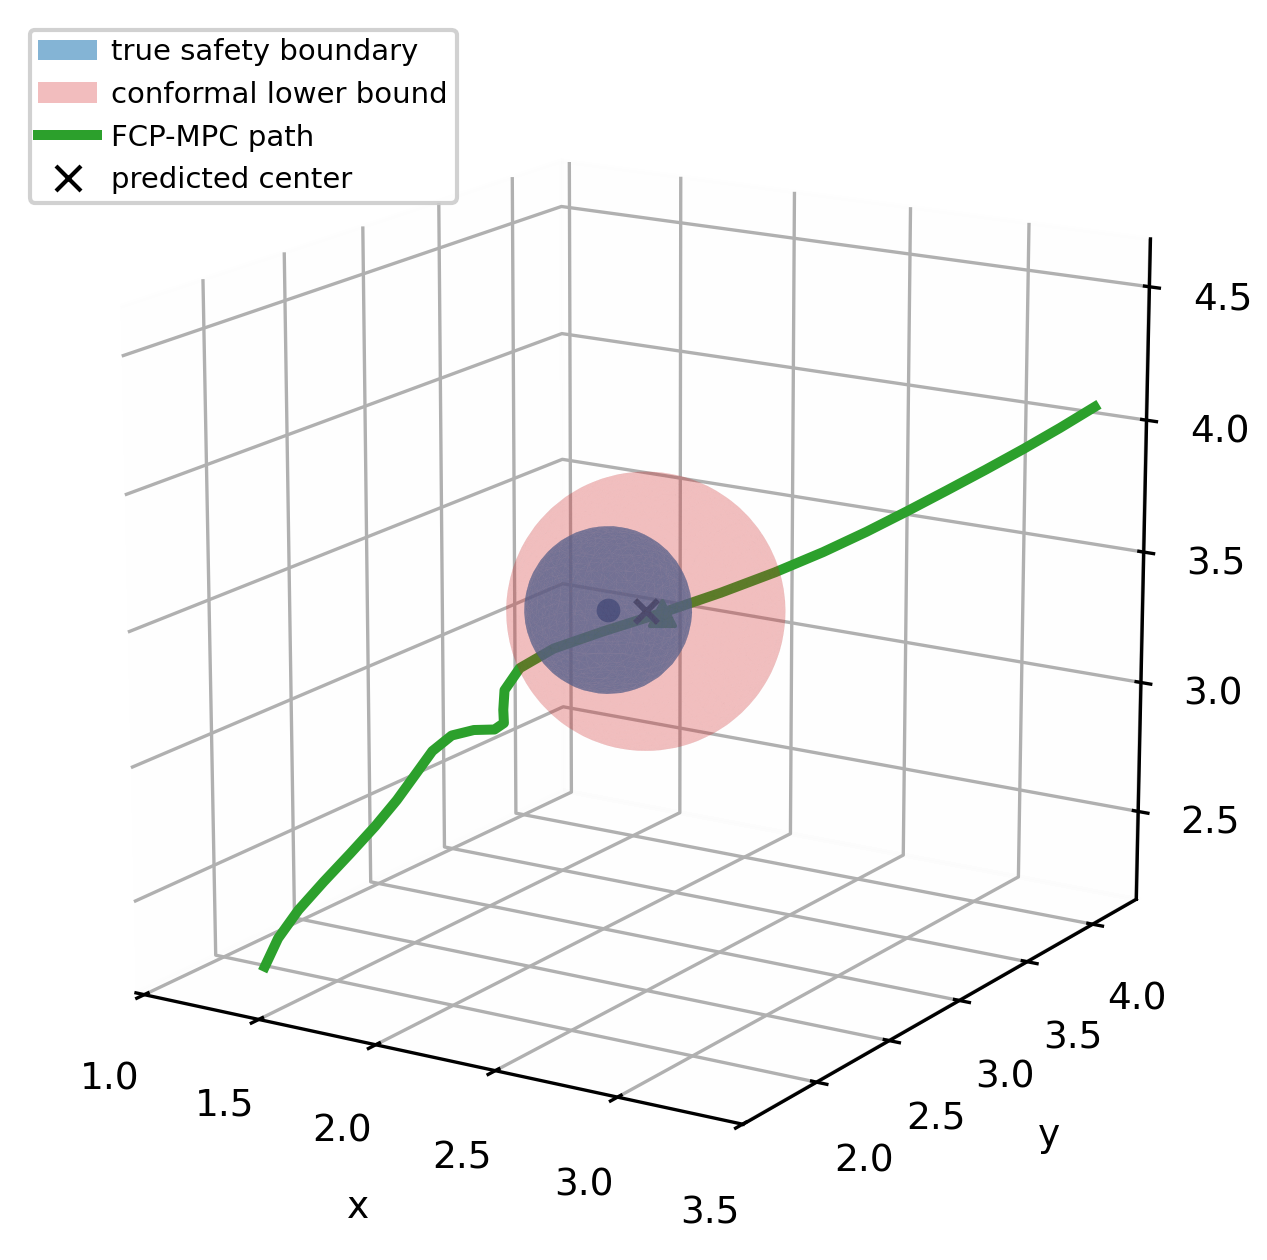
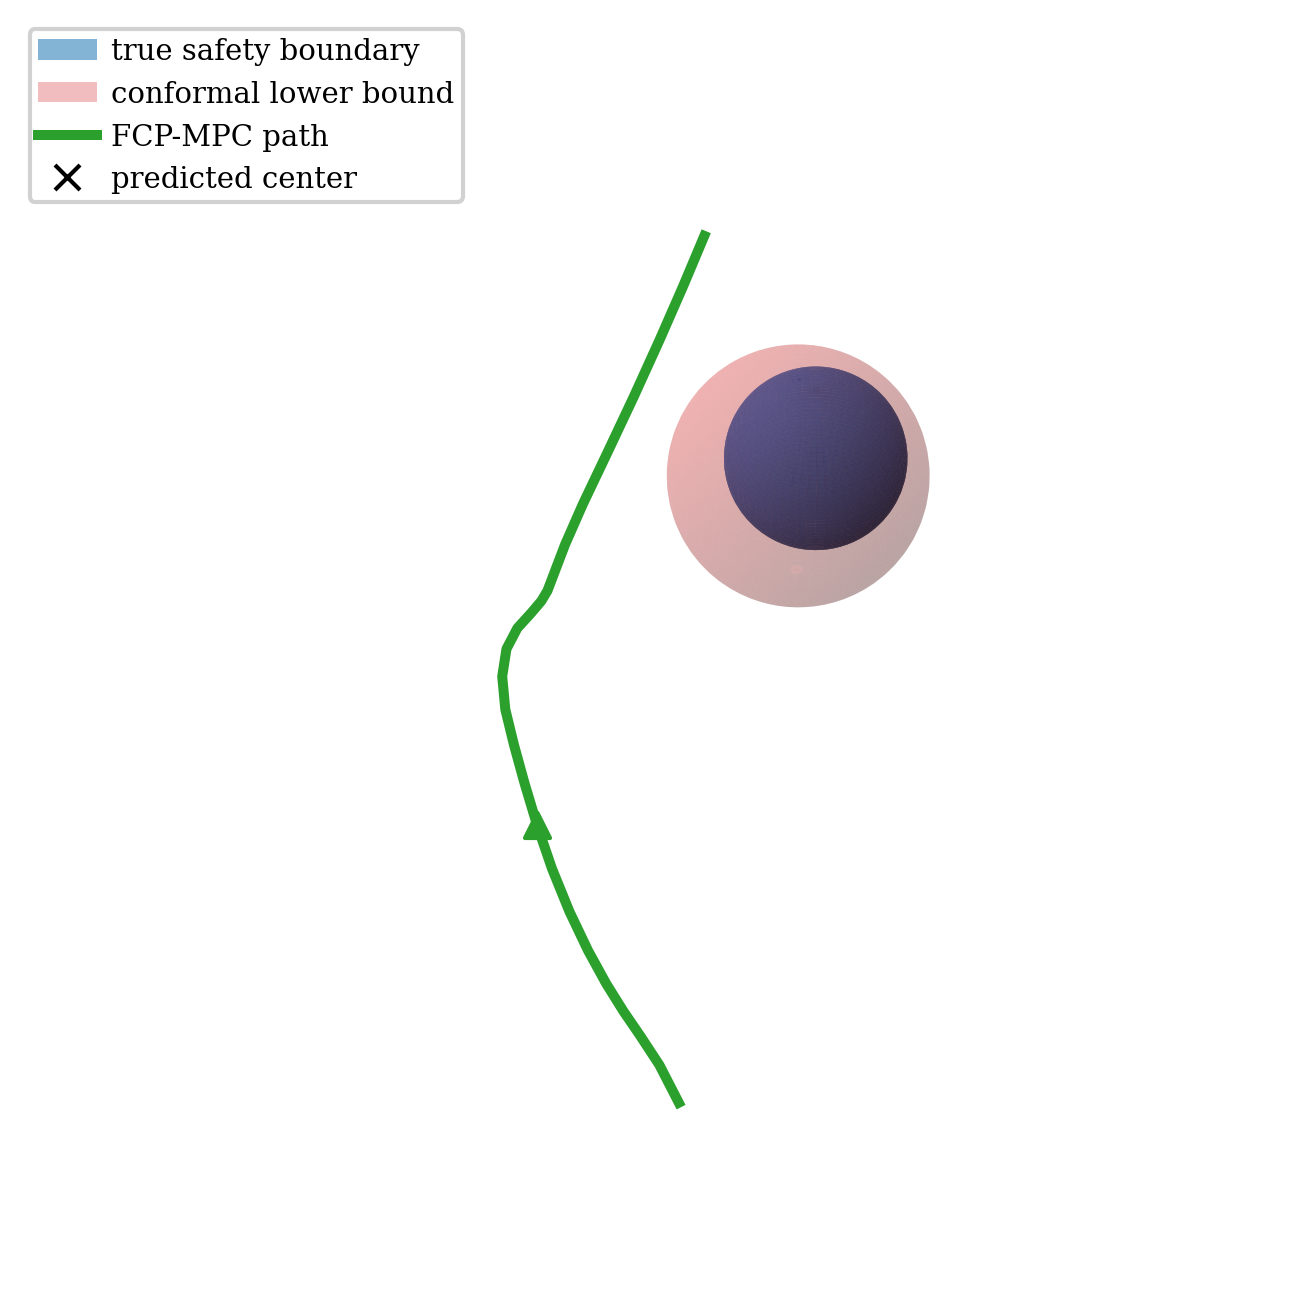
Fig.4 polish (shaded 3D bound + clear avoidance), better traj panels, prose refinements
Fig.4: render the conformal-bound illustration as smooth light-shaded analytic
spheres (a solid blue true-safety ball inside the translucent red conformal
shell) on a clean, paper-styled floating view (no grid/ticks/panes, serif font).
Frame/obstacle selection now picks the obstacle the whole executed path stays
clear of, and the camera is set ~perpendicular to the path-obstacle plane, so the
FCP path visibly skirts (rather than projects through) the safety bound.

Trajectory figure (Fig.6): switched panels to seeds 20/22/30 -- FCP reaches the
goal in all three with zero collisions, and ECP survives long enough to be
visible (25/54/21 steps) with red-x crash markers; harden make_figure to still
draw <2-point (instantly-crashed) trajectories. Added scan_traj_seeds.py, the
pool scan used to choose representative panels.

Prose: mark the online coefficient-update as (optional, omitted in 3D) in the
algorithm; add a brief, implicit note that the same calibrated field also admits
a soft-penalty use (with an ablation framing that it supports both a hard
constraint and a soft penalty); extend the 3D discussion that the open workspace
and sparser obstacles let the offline-only variant cut computation while keeping
the guarantee.

diff --git a/make_fig_conformal_3d.py b/make_fig_conformal_3d.py
@@ -33,6 +33,7 @@ import numpy as np
 import matplotlib
 matplotlib.use("Agg")
 import matplotlib.pyplot as plt
+from matplotlib.colors import LightSource
 from mpl_toolkits.mplot3d.art3d import Poly3DCollection
 from scipy.interpolate import RegularGridInterpolator
 from skimage.measure import marching_cubes
@@ -106,13 +107,17 @@ def run_rollout(seed: int, n_obs: int, i_view: int) -> dict:
 # --------------------------------------------------------------------------- #
 # 2) Frame / obstacle selection
 # --------------------------------------------------------------------------- #
-def pick_frame_and_obstacles(P: dict, max_obs: int = 2, sel_radius: float = 1.6):
-    """Pick the closed-loop frame where the robot most closely approaches an
-    obstacle (a visually meaningful place to show the safety bound), then take
-    the <=max_obs obstacles nearest the robot at that frame's prediction."""
+def pick_frame_and_obstacles(P: dict, max_obs: int = 2, sel_radius: float = 1.6,
+                             min_clearance: float = 0.6):
+    """Pick a closed-loop frame where the robot passes *just outside* an obstacle's
+    conformal envelope -- i.e. the tightest approach whose clearance still exceeds
+    ``min_clearance`` -- so the path visibly skirts (rather than penetrates) the
+    safety bound. Then take the <=max_obs obstacles nearest the robot."""
     hist = P["history"]
     iv = int(P["i_view"])
-    best = None
+    traj = P["robot_traj"]
+    best = None       # tightest pass whose whole-path clearance >= min_clearance
+    fallback = None   # global closest approach, if nothing clears the band
     for k, h in enumerate(hist):
         future_idx = k + iv + 1
         if future_idx >= len(hist):
@@ -122,10 +127,16 @@ def pick_frame_and_obstacles(P: dict, max_obs: int = 2, sel_radius: float = 1.6)
             continue
         robot = h["robot"]
         d = np.linalg.norm(gt - robot[None, :], axis=1)
-        dmin = float(d.min())
-        # interesting = close but not a degenerate overlap
-        if dmin < (best[0] if best else 1e9) and dmin > P["safe_rad"] * 0.5:
-            best = (dmin, k)
+        j = int(d.argmin())
+        obs = gt[j]
+        # closest the *whole executed path* ever comes to this obstacle location:
+        # guarantees the plotted segment never dips inside the conformal envelope.
+        path_clear = float(np.linalg.norm(traj - obs[None, :], axis=1).min())
+        if path_clear < (fallback[0] if fallback else 1e9) and path_clear > P["safe_rad"] * 0.5:
+            fallback = (path_clear, k)
+        if path_clear >= min_clearance and path_clear < (best[0] if best else 1e9):
+            best = (path_clear, k)
+    best = best or fallback
     if best is None:
         raise RuntimeError("no usable frame with nearby obstacles")
     _, k = best
@@ -212,6 +223,18 @@ def iso_world(vol, level, xs, ys, zs):
     return world, faces
 
 
+def shaded_sphere(ax, center, r, color, alpha, ls, n=64):
+    """Smooth, light-shaded analytic sphere via plot_surface -- gives a solid 3D
+    'ball' look (gradient shading) instead of a flat constant-color blob."""
+    u = np.linspace(0, 2 * np.pi, n)
+    v = np.linspace(0, np.pi, n)
+    x = center[0] + r * np.outer(np.cos(u), np.sin(v))
+    y = center[1] + r * np.outer(np.sin(u), np.sin(v))
+    z = center[2] + r * np.outer(np.ones_like(u), np.cos(v))
+    ax.plot_surface(x, y, z, rstride=1, cstride=1, color=color, alpha=alpha,
+                    linewidth=0, antialiased=True, shade=True, lightsource=ls)
+
+
 # --------------------------------------------------------------------------- #
 # 4) Render
 # --------------------------------------------------------------------------- #
@@ -220,7 +243,7 @@ def render(P: dict, sel: dict, out: str, elev: float, azim: float,
            margin_floor: float = 0.20, margin_cap: float = 0.8):
     safe_rad = float(P["safe_rad"])
     centers = np.vstack([c for c in (sel["gt"], sel["pred"]) if c.size] + [sel["robot"][None]])
-    pad = safe_rad + 0.9   # room for the inflated envelope
+    pad = safe_rad + 0.55   # zoom tight: just contain the inflated envelope
     lxs, lys, lzs, Xl, Yl, Zl = local_grid(centers, safe_rad, pad, res)
 
     D_true = distance_field_points_3d(sel["gt"], Xl, Yl, Zl)
@@ -251,27 +274,37 @@ def render(P: dict, sel: dict, out: str, elev: float, azim: float,
     print(f"[render] envelope margin U={U_show:.3f}  (conformal radius "
           f"{safe_rad + U_show:.3f} vs true {safe_rad:.3f})")
 
-    Vt, Ft = iso_world(D_true, safe_rad, lxs, lys, lzs)
-    Vc, Fc = iso_world(D_lower, safe_rad, lxs, lys, lzs)
-
+    plt.rcParams.update({
+        "font.family": "serif",
+        "font.serif": ["Computer Modern Roman", "DejaVu Serif", "Times New Roman"],
+        "mathtext.fontset": "cm",
+        "font.size": 10,
+    })
     if usetex:
-        plt.rcParams.update({"text.usetex": True, "font.family": "serif",
-                             "font.serif": ["Computer Modern Roman"]})
-    plt.rcParams.update({"font.size": 9})
+        plt.rcParams["text.usetex"] = True
 
-    fig = plt.figure(figsize=(4.6, 4.2), dpi=300)
+    fig = plt.figure(figsize=(4.8, 4.4), dpi=300)
     ax = fig.add_subplot(111, projection="3d")
 
-    # conformal lower-bound envelope (drawn first / underneath, translucent red)
-    if Vc is not None:
-        ax.add_collection3d(Poly3DCollection(
-            Vc[Fc], facecolor="#d62728", edgecolor="none",
-            alpha=0.16, linewidths=0))
-    # true safety boundary (solid steel-blue sphere around the real obstacle)
-    if Vt is not None:
-        ax.add_collection3d(Poly3DCollection(
-            Vt[Ft], facecolor="#1f77b4", edgecolor="none",
-            alpha=0.55, linewidths=0))
+    if envelope_mode == "field":
+        # exact (but ragged) conformal field: isosurfaces via marching cubes
+        Vc, Fc = iso_world(D_lower, safe_rad, lxs, lys, lzs)
+        Vt, Ft = iso_world(D_true, safe_rad, lxs, lys, lzs)
+        if Vc is not None:
+            ax.add_collection3d(Poly3DCollection(
+                Vc[Fc], facecolor="#d62728", edgecolor="none", alpha=0.16))
+        if Vt is not None:
+            ax.add_collection3d(Poly3DCollection(
+                Vt[Ft], facecolor="#1f77b4", edgecolor="none", alpha=0.55))
+    else:
+        # clean illustration: smooth, light-shaded analytic spheres for a solid
+        # 3D look. Conformal shells (translucent red) enclose the true safety
+        # balls (solid blue); each predicted center carries a conformal shell.
+        ls = LightSource(azdeg=315, altdeg=50)
+        for c in sel["pred"]:
+            shaded_sphere(ax, c, safe_rad + U_show, "#e23b3b", 0.22, ls)
+        for c in sel["gt"]:
+            shaded_sphere(ax, c, safe_rad, "#1f6fc4", 0.98, ls)
 
     # obstacle centers
     if sel["gt"].size:
@@ -293,17 +326,14 @@ def render(P: dict, sel: dict, out: str, elev: float, azim: float,
         ax.scatter(*sel["robot"], c="#2ca02c", s=36, marker="^",
                    depthshade=False, zorder=6)
 
-    # cosmetics
+    # cosmetics: clean, paper-style floating view (no grid, ticks, numbers, panes)
     ax.set_xlim(lo[0], hi[0]); ax.set_ylim(lo[1], hi[1]); ax.set_zlim(lo[2], hi[2])
     try:
         ax.set_box_aspect((hi - lo))
     except Exception:
         pass
     ax.view_init(elev=elev, azim=azim)
-    ax.set_xlabel("x"); ax.set_ylabel("y"); ax.set_zlabel("z")
-    ax.xaxis.pane.set_alpha(0.04); ax.yaxis.pane.set_alpha(0.04)
-    ax.zaxis.pane.set_alpha(0.04)
-    ax.grid(True, alpha=0.25)
+    ax.set_axis_off()
     from matplotlib.patches import Patch
     from matplotlib.lines import Line2D
     handles = [
@@ -334,13 +364,20 @@ def main():
     ap.add_argument("--i-view", type=int, default=4)
     ap.add_argument("--reuse", action="store_true",
                     help="render from the cached rollout (no recompute)")
-    ap.add_argument("--max-obs", type=int, default=2)
-    ap.add_argument("--sel-radius", type=float, default=1.6)
-    ap.add_argument("--elev", type=float, default=18.0)
-    ap.add_argument("--azim", type=float, default=-60.0)
+    ap.add_argument("--max-obs", type=int, default=1)
+    ap.add_argument("--sel-radius", type=float, default=1.3)
+    ap.add_argument("--min-clearance", type=float, default=0.62,
+                    help="pick the obstacle the whole path stays at least this far "
+                         "from, so the path visibly skirts (not penetrates) the bound")
+    ap.add_argument("--elev", type=float, default=45.0)
+    ap.add_argument("--azim", type=float, default=235.0,
+                    help="view ~perpendicular to the path/obstacle plane so the "
+                         "clearance is visible in-image, not along the line of sight")
     ap.add_argument("--res", type=int, default=72)
     ap.add_argument("--usetex", action="store_true")
     ap.add_argument("--envelope-mode", choices=["sphere", "field"], default="sphere")
+    ap.add_argument("--margin", type=float, default=0.13,
+                    help="conformal-envelope margin floor (radius = r_safe + margin)")
     ap.add_argument("--out", default=OUT)
     args = ap.parse_args()
 
@@ -352,11 +389,12 @@ def main():
         P = run_rollout(args.seed, args.n_obs, args.i_view)
 
     sel = pick_frame_and_obstacles(P, max_obs=args.max_obs,
-                                   sel_radius=args.sel_radius)
+                                   sel_radius=args.sel_radius,
+                                   min_clearance=args.min_clearance)
     print(f"[select] frame={sel['frame']} iv={sel['iv']} "
           f"n_true={sel['gt'].shape[0]} n_pred={sel['pred'].shape[0]}")
     render(P, sel, args.out, args.elev, args.azim, args.usetex, args.res,
-           envelope_mode=args.envelope_mode)
+           envelope_mode=args.envelope_mode, margin_floor=args.margin)
 
 
 if __name__ == "__main__":

diff --git a/scan_traj_seeds.py b/scan_traj_seeds.py
@@ -1,0 +1,64 @@
+"""Scan a pool of seeds to find good trajectory-figure panels: seeds where
+FCP-MPC reaches the goal AND the baselines (especially ECP) survive long enough
+to be visible. Reuses the driver's episode runner; the paper TABLE is unaffected
+(it stays on seeds 30-34) -- this only picks representative panels for the
+qualitative trajectory figure.
+
+Outputs a ranked summary and caches all episode results so the figure can be
+rendered from any chosen 3 seeds without recomputation.
+"""
+from __future__ import annotations
+import os, pickle
+import numpy as np
+
+from make_3d_results import (run_jobs, METHOD_LABELS, EXP_BASE, CACHE,
+                             render_traj)
+
+POOL = [20, 21, 22, 23, 24, 35, 36, 37, 38, 39, 40, 41]
+N_OBS = 280
+OUT_PKL = os.path.join(os.path.dirname(os.path.abspath(__file__)),
+                       "traj_scan_results.pkl")
+
+
+def main():
+    exp_base = dict(EXP_BASE)
+    exp_base["max_steps"] = 250
+    exp_base["n_jobs"] = 1
+
+    # reuse already-computed 30-34 episodes from the driver cache
+    cached = []
+    if os.path.isfile(CACHE):
+        c = pickle.load(open(CACHE, "rb"))
+        cached = c.get("main", [])
+        print(f"[scan] loaded {len(cached)} cached episodes (seeds {sorted({r['seed'] for r in cached})})")
+
+    jobs = [(lab, s, N_OBS, exp_base, True) for s in POOL for lab in METHOD_LABELS]
+    workers = max(1, (os.cpu_count() or 2) - 1)
+    print(f"[scan] running {len(jobs)} episodes on {workers} workers over pool {POOL}", flush=True)
+    fresh = run_jobs(jobs, workers)
+
+    results = cached + fresh
+    pickle.dump(results, open(OUT_PKL, "wb"))
+    print(f"[scan] cached combined results -> {OUT_PKL}")
+
+    seeds = sorted({r["seed"] for r in results})
+    print("\nseed |  FCP reach/steps |  ECP steps |  ACP steps |  CC steps | FCP coll")
+    print("-" * 78)
+    for s in seeds:
+        rs = {r["label"]: r for r in results if r["seed"] == s}
+        def st(lab):
+            r = rs.get(lab)
+            return r["metrics"]["steps"] if r else -1
+        def reach(lab):
+            r = rs.get(lab)
+            return int(r["metrics"]["reached_goal"]) if r else -1
+        fcp = rs.get("FCP-MPC (ours)")
+        coll = fcp["metrics"]["collision_rate"] if fcp else -1
+        flag = "  <== FCP reaches" if reach("FCP-MPC (ours)") == 1 else ""
+        print(f"{s:>4} |    {reach('FCP-MPC (ours)')} / {st('FCP-MPC (ours)'):>4}     |"
+              f"   {st('ECP-MPC'):>4}    |   {st('ACP-MPC'):>4}    |  {st('CC-MPC'):>4}   |"
+              f"  {coll:.3f}{flag}")
+
+
+if __name__ == "__main__":
+    main()

diff --git a/T_RO2026/main.tex b/T_RO2026/main.tex
@@ -655,7 +655,8 @@ f_r\!\left(z^{(k)}_{t+i|t},u^{(k)}_{t+i|t}\right),
 p^{(k)}_{t+i|t}\in \mathcal S^{\mathrm{cp}}_{t+i|t},
 \quad i=1,\dots,N . \nonumber
 \end{align}
-In implementation, the conformal lower bound can be incorporated in one of two ways: as a \emph{hard} feasibility filter that rejects any candidate violating~\eqref{eq:sampled_feasible_mpc} outright---the setting to which the guarantees of Theorems~\ref{thm:asymptotic_safety} and~\ref{thm:asymptotic_safety_afcp} apply---or as a \emph{soft} safety-shaping penalty added to the objective, which leaves the feasible set otherwise unconstrained by the dynamic conformal bound. We compare both choices in our 2D pedestrian experiments.
+In implementation, the conformal lower bound can be incorporated in one of two ways: as a \emph{hard} feasibility filter that rejects any candidate violating~\eqref{eq:sampled_feasible_mpc} outright---the setting to which the guarantees of Theorems~\ref{thm:asymptotic_safety} and~\ref{thm:asymptotic_safety_afcp} apply---or as a \emph{soft} safety-shaping penalty added to the objective, which leaves the feasible set otherwise unconstrained by the dynamic conformal bound.
+The same calibrated field also admits a softer use: the conformal margin can enter the objective as a graded penalty instead of a hard cutoff, discouraging---rather than forbidding---incursions into the calibrated unsafe region. We compare both choices in our 2D pedestrian experiments.
 
 \subsection{Offline GMM Initialization}
 \label{subsec:offline_online_cp}
@@ -807,10 +808,11 @@ Algorithm~\ref{alg:fcp_mpc_acp} summarizes the resulting procedure.
 \STATE \textbf{Online MPC loop:}
 \FOR{$t=0,1,2,\dots$}
     \STATE Observe current robot state $z_t$ and obtain obstacle predictions $\{\widehat{\mathcal O}_{t+i|t}\}_{i=1}^N$;
+    \STATE \textit{(Online adaptation --- optional; omitted in the open 3D setting:)}
     \FOR{each horizon index $i$ for which an online residual field $S^{\mathrm{on}}_{i,t}$ becomes available}
         \STATE Project $S^{\mathrm{on}}_{i,t}$ onto the cached basis and compute $\xi^{\mathrm{on}}_{i,t}$;
         \STATE Update the coefficient upper bound $\hat{\xi}^{(t+1)}_i$ \eqref{eq:acp_update};
-        
+
     \ENDFOR
     \STATE Sample candidate input sequences and roll out candidate trajectories;
     \STATE Evaluate $\widetilde U_{i,t}(x)=\varepsilon_i+\hat{\xi}^{(t)\top}_i\varphi_i(x)$ along rollouts;
@@ -1191,6 +1193,9 @@ relative to CC-MPC, at the cost of a higher collision rate in the densest scenes
 Importantly, both variants keep the control computation time far below ECP-MPC---often
 by close to an order of magnitude---because uncertainty calibration is performed
 offline and only a low-dimensional coefficient update runs online.
+Together, the two variants show that the same offline-calibrated field supports both a
+strict feasibility constraint and a soft safety penalty, trading conservativeness for
+feasibility as the scene demands.
 
 Overall, these results demonstrate that offline functional conformal calibration
 enables FCP-MPC to reason over global uncertainty distributions without expensive
@@ -1441,10 +1446,13 @@ functional conformal prediction to account for the full distribution of
 uncertainty in a global and principled manner.
 At runtime, safety is enforced via hard constraints derived from worst-case
 obstacle configurations, enabling efficient and predictable online planning.
-Unlike the dense 2D benchmarks, the open 3D workspace offers ample free space, so the
-overconservatism of the worst-case envelope rarely removes all feasible motions; we
-therefore deploy only the \emph{offline hard} variant in 3D, omitting the online
-adaptation and soft shaping of the 2D study without sacrificing goal-reaching.
+Unlike the dense 2D pedestrian benchmarks, the open 3D workspace offers ample free space
+and sparser, more predictable obstacles---airborne agents rarely pack a configuration the
+way a crowd of pedestrians does---so the worst-case envelope rarely removes all feasible
+motions. We therefore deploy only the \emph{offline hard} variant in 3D, omitting the
+online adaptation and soft shaping of the 2D study without sacrificing goal-reaching: the
+offline calibration alone keeps per-step computation low while still certifying the
+conformal safety bound.
 This design allows FCP-MPC to maintain higher execution speed than ECP-MPC while
 retaining awareness of environmental uncertainty beyond local interactions.
 Moreover, the observed collision rate of FCP-MPC ($0.013$) stays well within the

diff --git a/make_figs_3d.py b/make_figs_3d.py
@@ -163,10 +163,15 @@ def make_figure(data: dict, out_path: str) -> None:
         crashed = d.get("crashed", {})
         for name, _fn, _ex, color, lw, z in METHODS:
             traj = d["trajs"].get(name)
-            if traj is None or len(traj) < 2:
+            if traj is None or len(traj) == 0:
                 continue
-            ax.plot(traj[:, 0], traj[:, 1], traj[:, 2],
-                    color=color, lw=lw, alpha=0.95, zorder=z)
+            if len(traj) >= 2:
+                ax.plot(traj[:, 0], traj[:, 1], traj[:, 2],
+                        color=color, lw=lw, alpha=0.95, zorder=z)
+            else:
+                # crashed almost immediately (one logged pose): still show the
+                # method with a colored dot so it does not vanish from the panel.
+                ax.scatter(*traj[0], color=color, s=28, depthshade=False, zorder=z)
             if crashed.get(name):  # lost control / fell to the floor -> mark the crash point
                 ax.scatter(*traj[-1], c="#d62728", marker="x", s=55,
                            linewidths=2.0, depthshade=False, zorder=9)